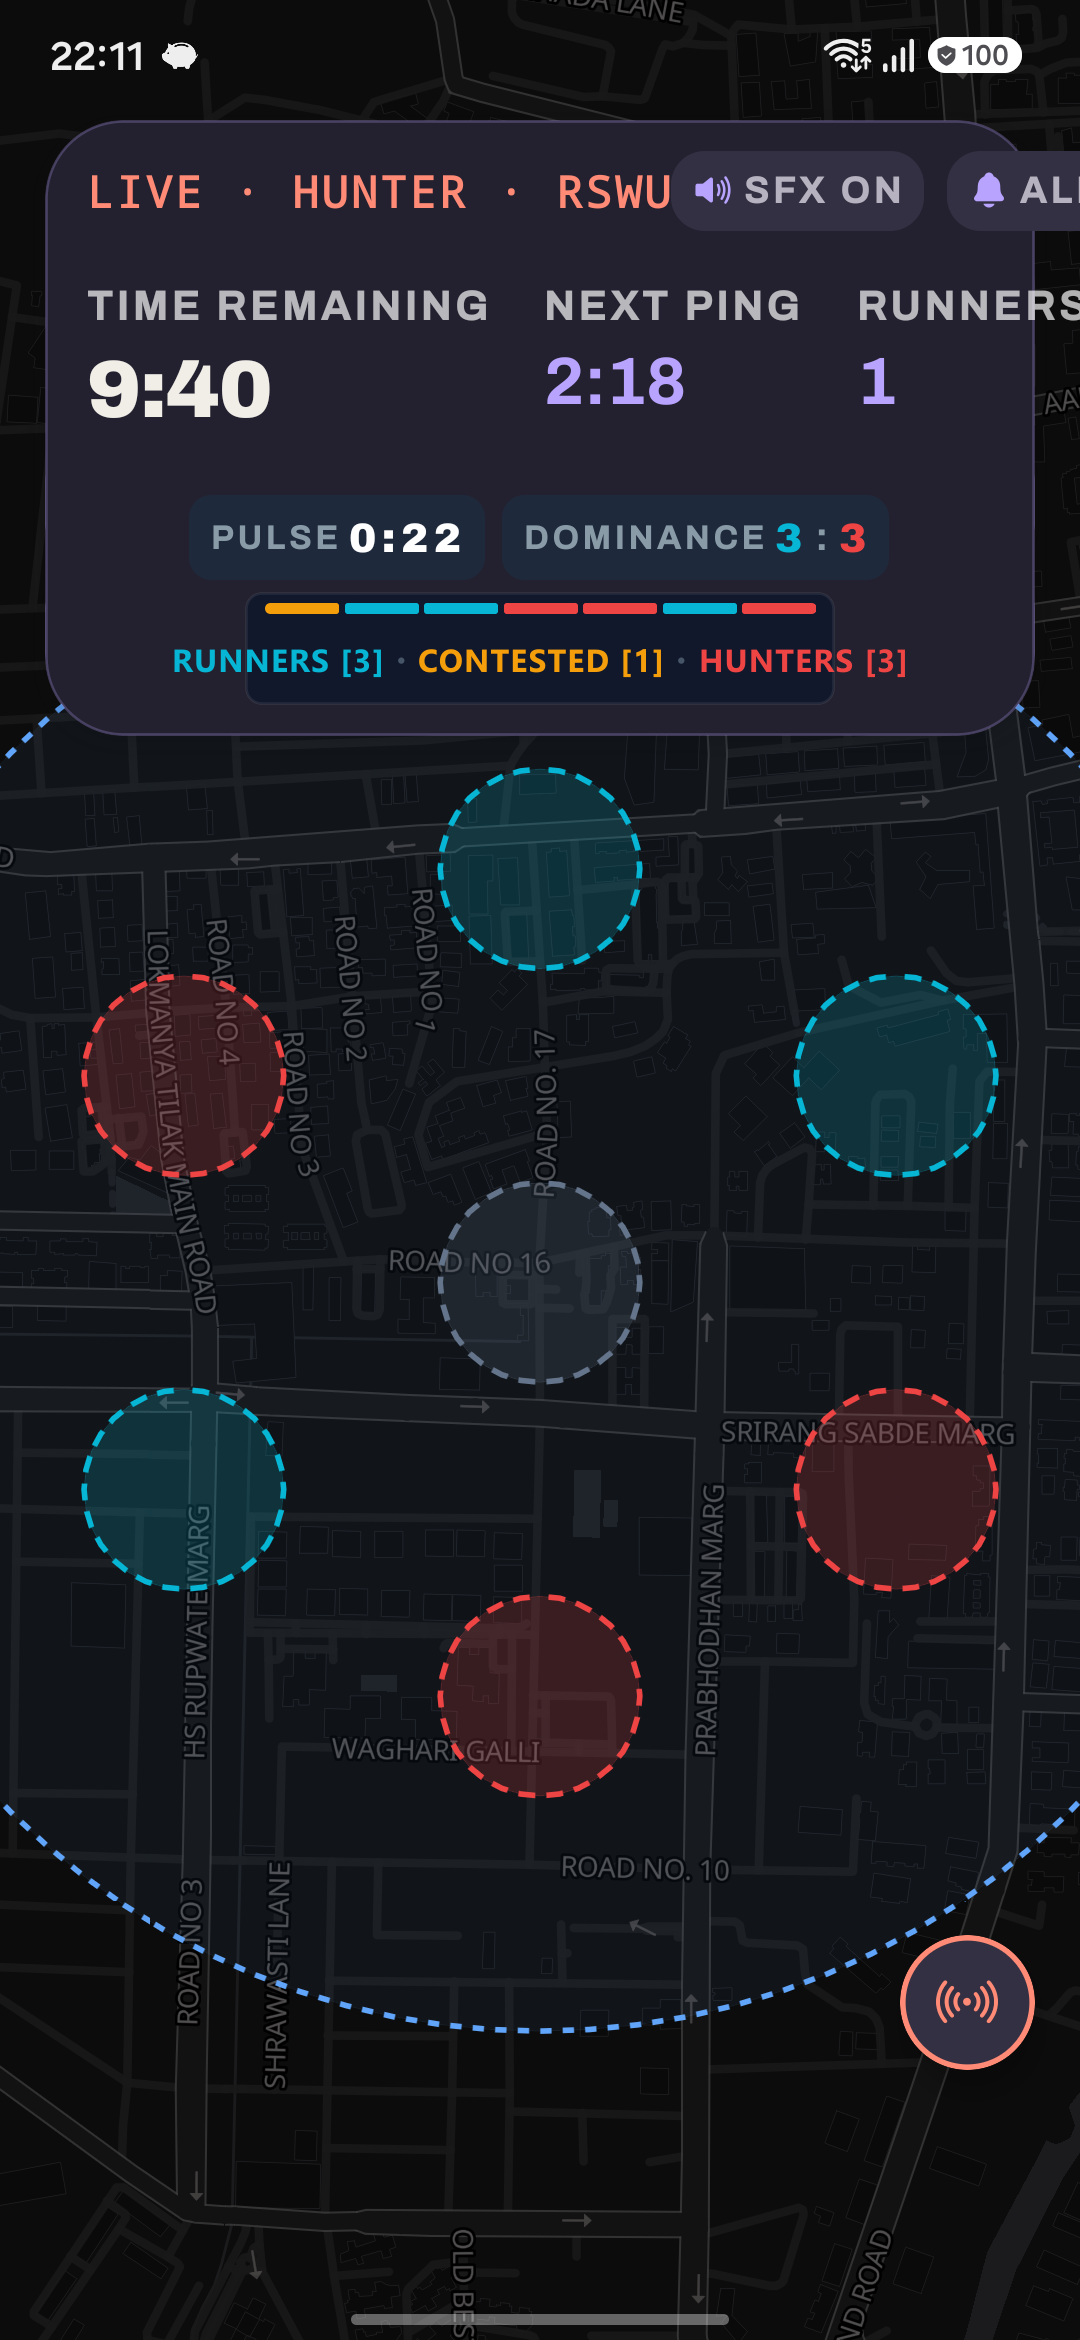
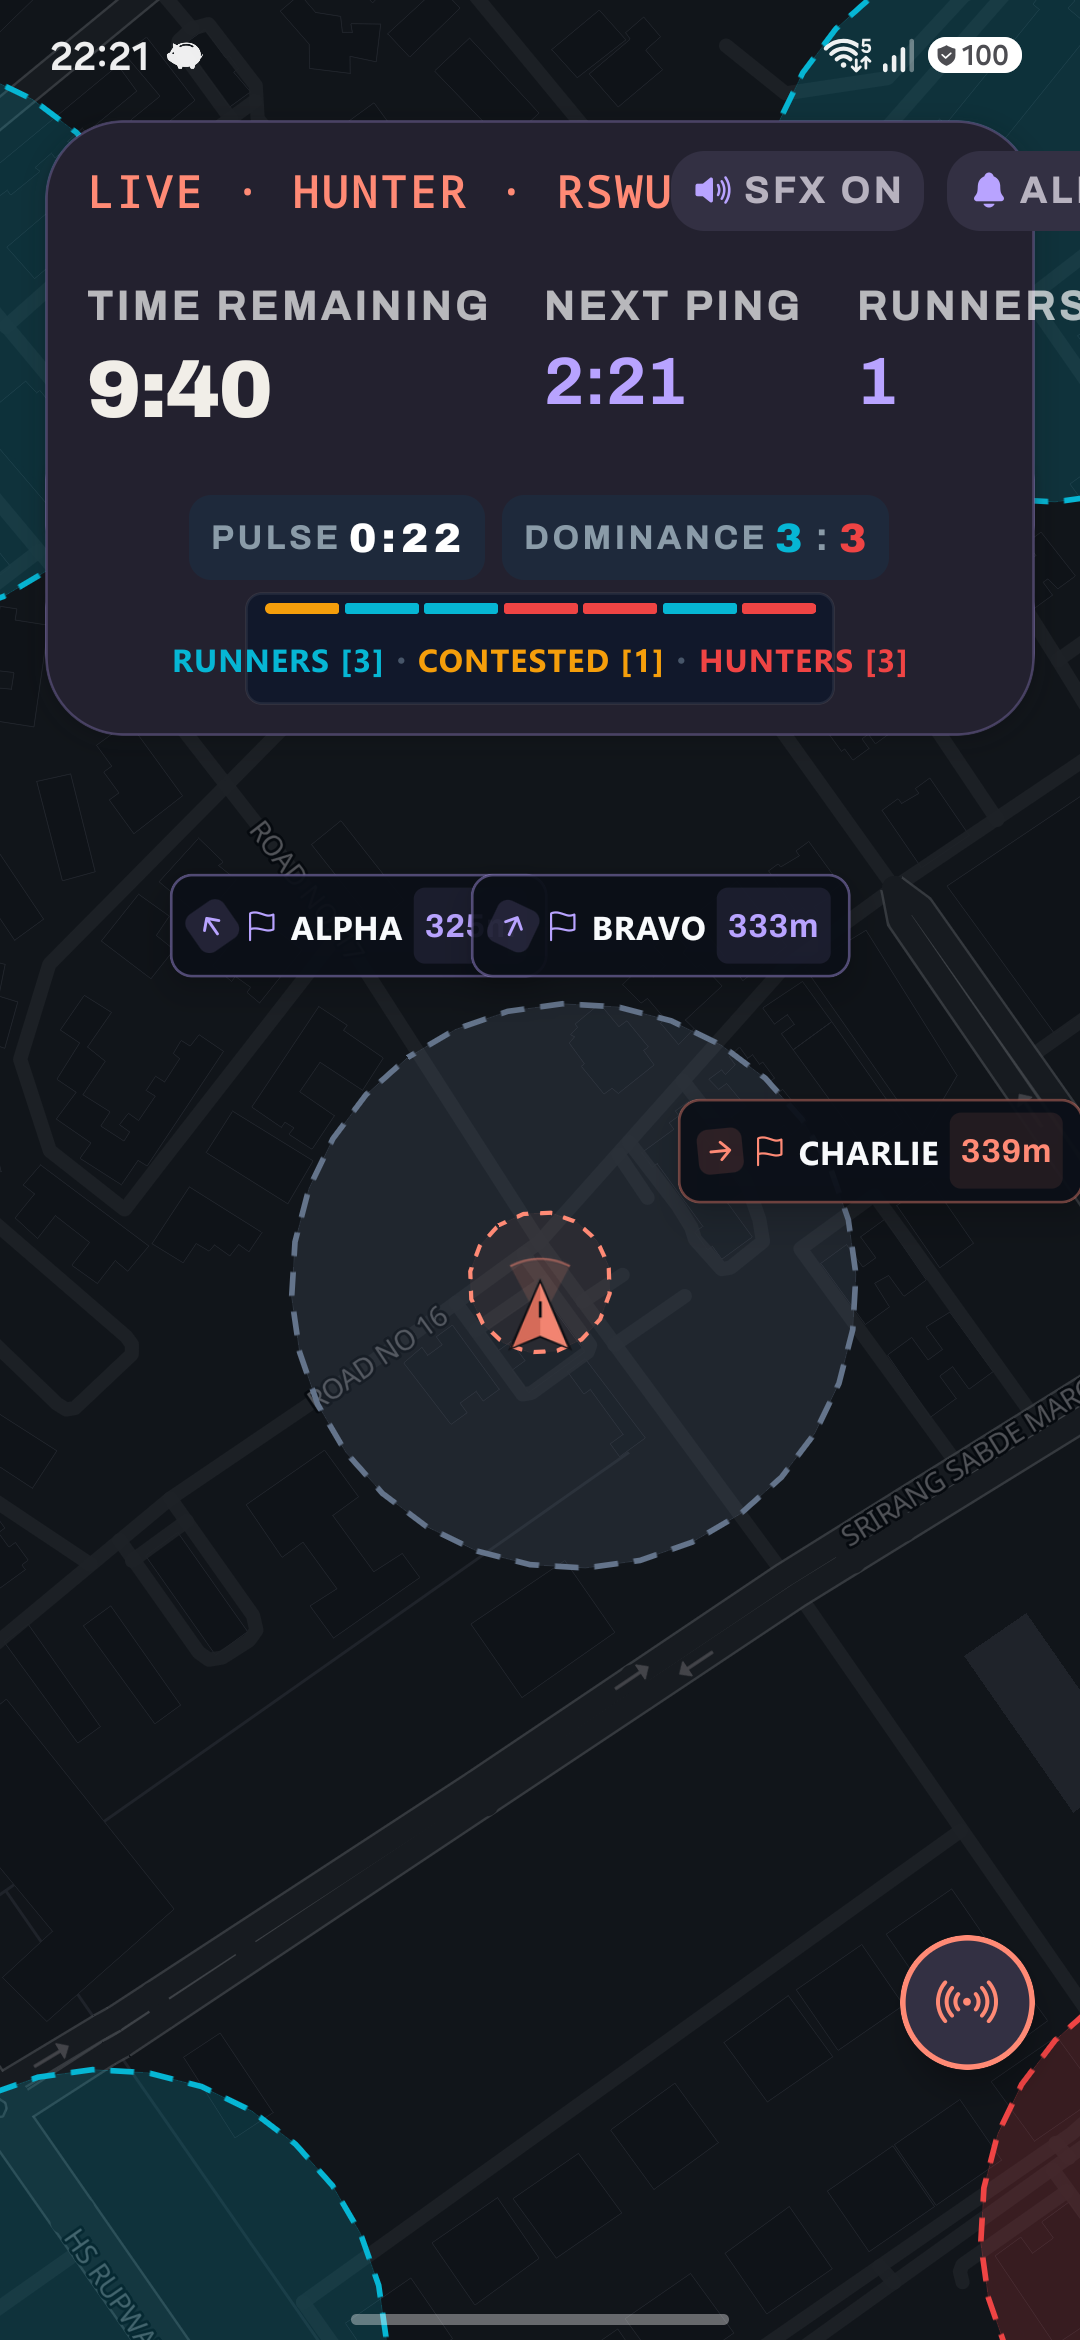
perf(map): eliminate rotation and position tracking lag with 60ms stream, linear ease, and 800ms GPS updates

diff --git a/src/game-shell/GameShell.tsx b/src/game-shell/GameShell.tsx
@@ -122,20 +122,16 @@ export function GameShell({ gameId }: GameShellProps) {
           if (raw < 0 || isNaN(raw)) return;
 
           const nowMs = Date.now();
-          // Rate-limit React updates to ~5 updates/sec (200ms) to prevent high-frequency re-render churn
-          if (nowMs - lastUpdateTime < 200) return;
+          // Rate-limit React updates to ~16 updates/sec (60ms) for snappy real-time tracking
+          if (nowMs - lastUpdateTime < 60) return;
 
-          // Angular deadband: ignore angular shifts < 5.0 degrees to eliminate sensor tremor and desk noise
+          // Angular deadband: ignore angular shifts < 2.5 degrees to eliminate sensor tremor and desk noise
           const diff = Math.abs(((raw - lastHeading + 540) % 360) - 180);
-          if (diff < 5.0) return;
+          if (diff < 2.5) return;
 
-          // Exponential moving average filter for buttery smooth heading transitions
-          const angleDelta = ((raw - lastHeading + 540) % 360) - 180;
-          const smoothed = (lastHeading + angleDelta * 0.4 + 360) % 360;
-
-          lastHeading = smoothed;
+          lastHeading = raw;
           lastUpdateTime = nowMs;
-          setUserHeading(smoothed);
+          setUserHeading(raw);
         });
       } catch {
         // Heading may not be supported on emulators without compass
@@ -374,40 +370,43 @@ export function GameShell({ gameId }: GameShellProps) {
 
   useEffect(() => {
     if (sharing !== 'on') return;
-    return watchLocation((nextFix) => {
-      if (AppState.currentState !== 'active' && backgroundSharing) return;
+    return watchLocation(
+      (nextFix) => {
+        if (AppState.currentState !== 'active' && backgroundSharing) return;
 
-      const currentSpeed = nextFix.speed ?? 0;
+        const currentSpeed = nextFix.speed ?? 0;
 
-      // Stationary GPS Wander Deadband:
-      // If speed is very low and displacement is within satellite noise (< 4.0m), keep existing fix
-      if (lastAcceptedFixRef.current) {
-        const d = distanceM(
-          { latitude: lastAcceptedFixRef.current.latitude, longitude: lastAcceptedFixRef.current.longitude },
-          { latitude: nextFix.latitude, longitude: nextFix.longitude }
-        );
-        if (currentSpeed < 0.8 && d < 4.0) {
-          return; // Suppress stationary micro-jitter
+        // Stationary GPS Wander Deadband:
+        // If speed is very low (< 0.6 m/s) and displacement is within satellite noise (< 2.0m), keep existing fix
+        if (lastAcceptedFixRef.current) {
+          const d = distanceM(
+            { latitude: lastAcceptedFixRef.current.latitude, longitude: lastAcceptedFixRef.current.longitude },
+            { latitude: nextFix.latitude, longitude: nextFix.longitude }
+          );
+          if (currentSpeed < 0.6 && d < 2.0) {
+            return; // Suppress stationary micro-jitter
+          }
         }
-      }
 
-      lastAcceptedFixRef.current = nextFix;
-      setFix(nextFix);
+        lastAcceptedFixRef.current = nextFix;
+        setFix(nextFix);
 
-      const now = Date.now();
-      if (currentSpeed >= 0.5) {
-        setLastMovedAt(now);
-      }
-      const stationarySec = Math.max(0, (now - lastMovedAt) / 1000);
-      const adaptive = calculateAdaptiveGpsConfig({
-        speedMps: currentSpeed,
-        stationaryDurationSec: stationarySec,
-        batteryGuardEnabled: batteryGuardOn,
-      });
-      setPowerTier(adaptive.powerTier);
+        const now = Date.now();
+        if (currentSpeed >= 0.5) {
+          setLastMovedAt(now);
+        }
+        const stationarySec = Math.max(0, (now - lastMovedAt) / 1000);
+        const adaptive = calculateAdaptiveGpsConfig({
+          speedMps: currentSpeed,
+          stationaryDurationSec: stationarySec,
+          batteryGuardEnabled: batteryGuardOn,
+        });
+        setPowerTier(adaptive.powerTier);
 
-      if (!backgroundSharing) void uploadLocation(nextFix);
-    });
+        if (!backgroundSharing) void uploadLocation(nextFix);
+      },
+      { timeInterval: 800, distanceInterval: 1 }
+    );
   }, [backgroundSharing, batteryGuardOn, lastMovedAt, sharing]);
 
   // Derived state & selectors

diff --git a/src/game-shell/MapView.tsx b/src/game-shell/MapView.tsx
@@ -74,18 +74,18 @@ export const MapView = memo(function MapView({
     }
 
     // Deadbands:
-    // 1. Angular deadband: ignore shifts < 4.0 deg to eliminate sensor tremor and desk noise
-    const shouldRotate = Math.abs(angleDelta) >= 4.0;
-    // 2. Spatial deadband: ignore GPS micro-wander < 3.5 meters when stationary
-    const shouldPan = distMoved >= 3.5;
+    // 1. Angular deadband: ignore shifts < 2.5 deg to eliminate sensor tremor and desk noise
+    const shouldRotate = Math.abs(angleDelta) >= 2.5;
+    // 2. Spatial deadband: ignore GPS micro-wander < 1.5 meters when stationary
+    const shouldPan = distMoved >= 1.5;
 
     // If neither threshold is crossed, keep camera completely frozen (rock solid on table)
     if (!shouldRotate && !shouldPan && lastCameraCenterRef.current !== null) {
       return;
     }
 
-    // Rate-limit camera easeTo calls to at most once per 250ms to match ease animation duration
-    if (now - lastUpdateTimeRef.current < 250 && lastCameraCenterRef.current !== null) {
+    // Rate-limit camera easeTo calls to at most once per 75ms for high-responsiveness real-time tracking
+    if (now - lastUpdateTimeRef.current < 75 && lastCameraCenterRef.current !== null) {
       return;
     }
 
@@ -106,7 +106,8 @@ export const MapView = memo(function MapView({
       bearing: nextBearing,
       zoom: 16.5,
       padding: { top: 120, bottom: 40, left: 0, right: 0 },
-      duration: 300,
+      duration: 100,
+      easing: 'linear',
     });
   }, [ownFix, userHeading]);
   // Memoized GeoJSON features

diff --git a/src/components/map/AnimatedPlayerPointer.tsx b/src/components/map/AnimatedPlayerPointer.tsx
@@ -75,9 +75,9 @@ export function AnimatedPlayerPointer({
       : require('../../../assets/map/pointers/runner-pointer.png');
 
   // The pointer asset is 128x128 with the arrow graphic centered at y=47 (17px above PNG center).
-  // Translating down by (17/128 * size) places the chevron arrow's visual centroid exactly at (0,0)
+  // Translating down by 27% of size places the chevron arrow's visual centroid exactly at (0,0)
   // so the arrow tip and body are concentric with the player GPS coordinates and tag radius ring.
-  const yOffset = Math.round(size * (17 / 128));
+  const yOffset = Math.round(size * 0.27);
 
   return (
     <View style={[styles.container, { width: size, height: size }, style]}>

diff --git a/src/lib/location.ts b/src/lib/location.ts
@@ -246,8 +246,8 @@ export function watchLocation(
   void Location.watchPositionAsync(
     {
       accuracy: options?.accuracy ?? Location.Accuracy.High,
-      timeInterval: options?.timeInterval ?? 2_500,
-      distanceInterval: options?.distanceInterval ?? 2,
+      timeInterval: options?.timeInterval ?? 800,
+      distanceInterval: options?.distanceInterval ?? 1,
     },
     (location) => {
       if (!cancelled) onFix(toFix(location));
